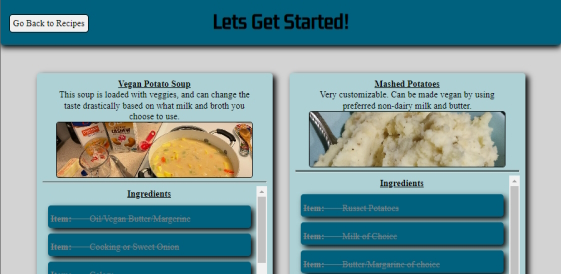
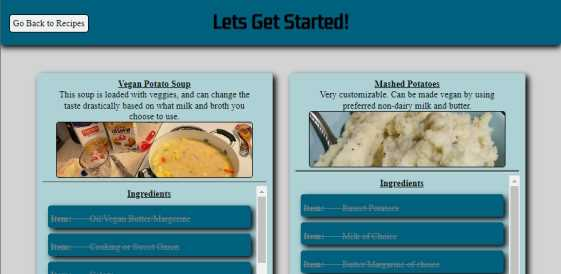
Made images easier to load. fixed header issue on mobile.

diff --git a/src/components/Header.tsx b/src/components/Header.tsx
@@ -22,7 +22,7 @@ const Header = () => {
 			items.push(
 				<Carousel.Item key={`headerImg${i}`}>
 					<img
-						className="d-block w-100"
+						className="d-block w-100 rounded-bottom"
 						src={`images/header/header${i}.jpg`}
 						alt={imageAlts[i]}
 					/>
@@ -46,7 +46,7 @@ const Header = () => {
 				<h1 className='headerText' style={{overflow: 'hidden'}}>&nbsp;~ Web Developer</h1>
 			</div>
 			{/* Carousel of Images, not linked */}
-			<Carousel className='imageCarousel'>
+			<Carousel className='imageCarousel rounded-bottom'>
 				{carouselItemCreator()}
 			</Carousel>
 		</header>

diff --git a/src/App.scss b/src/App.scss
@@ -87,7 +87,7 @@ footer {
 	display: flex;
 	flex-direction: row;
 	flex-wrap: nowrap;
-	height: clamp(1rem, 4vw, 5rem);
+	height: clamp(3rem, 4vw, 5rem);
 	justify-content: center;
 	left: 0;
 	padding-top: 5px;
@@ -110,9 +110,13 @@ footer {
 }
 
 .imageCarousel {
-	margin-top: clamp(1rem, 4vw, 5rem);
+	margin-top: clamp(3rem, 4vw, 5rem);
 	margin-bottom: 20px;
 }
+
+
+
+
 
 .noUnderline {
 	text-decoration: none !important;
